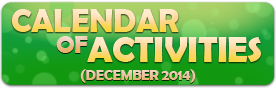
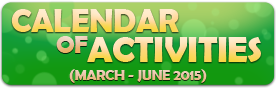
Activities and Guest comments summary

Changed region(s): [[0.2319, 0.7727, 0.7536, 0.9545]]

diff --git a/rlmj.js b/rlmj.js
@@ -1,5 +1,5 @@
 // Para sa tanan pages
-$(document).on( "pagecreate", function () {
+$( document ).on( "pagecreate", function() {
 	
 	// For collapsible-set to auto-croll sa taas. 
 	var that = "";
@@ -20,8 +20,8 @@ $(document).on( "pagecreate", function () {
 		}, 100);
 	}
 	
-	function CollapsibleHeaderMoveToTop () { 
-		$("a.ui-collapsible-heading-toggle").on("click", fncClick);
+	function CollapsibleHeaderMoveToTop() { 
+		$( "a.ui-collapsible-heading-toggle" ).on( "click", fncClick );
 	}
 	// Function end collapsible-set to auto-croll to top
 
@@ -35,8 +35,8 @@ $(document).on( "pagecreate", function () {
 /* Index */
 $( document ).on( "pagecreate", "#home", function () {
 
-	var $slidingImage = $("#homeBack .homebackground"),
-		$slidingImageCaption = $(".captionWrap").find(".slideImageCaption");
+	var $slidingImage = $( "#homeBack .homebackground" ),
+		$slidingImageCaption = $( ".captionWrap" ).find( ".slideImageCaption" );
 
 	function updateSlidingImagePath() { //Function to detect screen with and change path of sliding image to load.
 
@@ -45,33 +45,33 @@ $( document ).on( "pagecreate", "#home", function () {
 			imgSize = currentPath.slice( 13, 17 );
 
 		if (screenWidth <= 353.5) {
-			if (imgSize !== "0320") { $slidingImage.attr('src', function (index, attr) { return attr.replace(imgSize, "0320"); }); }
+			if (imgSize !== "0320") { $slidingImage.attr( 'src', function(index, attr) { return attr.replace( imgSize, "0320" ); }); }
 		} else if (screenWidth >= 353.51 && screenWidth <= 433.50) {
-			if (imgSize !== "0387") { $slidingImage.attr('src', function (index, attr) { return attr.replace(imgSize, "0387"); }); }
+			if (imgSize !== "0387") { $slidingImage.attr( 'src', function(index, attr) { return attr.replace( imgSize, "0387" ); }); }
 		} else if (screenWidth >= 433.51 && screenWidth <= 540) {
-			if (imgSize !== "0480") { $slidingImage.attr('src', function (index, attr) { return attr.replace(imgSize, "0480"); }); }
+			if (imgSize !== "0480") { $slidingImage.attr( 'src', function(index, attr) { return attr.replace( imgSize, "0480" ); }); }
 		} else if (screenWidth >= 540.01 && screenWidth <= 620) {
-			if (imgSize !== "0600") { $slidingImage.attr('src', function (index, attr) { return attr.replace(imgSize, "0600"); }); }
+			if (imgSize !== "0600") { $slidingImage.attr( 'src', function(index, attr) { return attr.replace( imgSize, "0600" ); }); }
 		} else if (screenWidth >= 620.01 && screenWidth <= 660) {
-			if (imgSize !== "0640") { $slidingImage.attr('src', function (index, attr) { return attr.replace(imgSize, "0640"); }); }
+			if (imgSize !== "0640") { $slidingImage.attr( 'src', function(index, attr) { return attr.replace( imgSize, "0640" ); }); }
 		} else if (screenWidth >= 660.01 && screenWidth <= 724) {
-			if (imgSize !== "0680") { $slidingImage.attr('src', function (index, attr) { return attr.replace(imgSize, "0680"); }); }
+			if (imgSize !== "0680") { $slidingImage.attr( 'src', function(index, attr) { return attr.replace( imgSize, "0680" ); }); }
 		} else if (screenWidth >= 724.01 && screenWidth <= 784) {
-			if (imgSize !== "0768") { $slidingImage.attr('src', function (index, attr) { return attr.replace(imgSize, "0768"); }); }
+			if (imgSize !== "0768") { $slidingImage.attr( 'src', function(index, attr) { return attr.replace( imgSize, "0768" ); }); }
 		} else if (screenWidth >= 784.01 && screenWidth <= 880) {
-			if (imgSize !== "0800") { $slidingImage.attr('src', function (index, attr) { return attr.replace(imgSize, "0800"); }); }
+			if (imgSize !== "0800") { $slidingImage.attr( 'src', function(index, attr) { return attr.replace( imgSize, "0800" ); }); }
 		} else if (screenWidth >= 880.01 && screenWidth <= 979) {
-			if (imgSize !== "0960") { $slidingImage.attr('src', function (index, attr) { return attr.replace(imgSize, "0960"); }); }
+			if (imgSize !== "0960") { $slidingImage.attr( 'src', function(index, attr) { return attr.replace( imgSize, "0960" ); }); }
 		} else if (screenWidth >= 979.01 && screenWidth <= 1011) {
-			if (imgSize !== "0998") { $slidingImage.attr('src', function (index, attr) { return attr.replace(imgSize, "0998"); }); }
+			if (imgSize !== "0998") { $slidingImage.attr( 'src', function(index, attr) { return attr.replace( imgSize, "0998" ); }); }
 		} else if (screenWidth >= 1011.01 && screenWidth <= 1052) {
-			if (imgSize !== "1024") { $slidingImage.attr('src', function (index, attr) { return attr.replace(imgSize, "1024"); }); }
+			if (imgSize !== "1024") { $slidingImage.attr( 'src', function(index, attr) { return attr.replace( imgSize, "1024" ); }); }
 		} else if (screenWidth >= 1052.01 && screenWidth <= 1108.5) {
-			if (imgSize !== "1080") { $slidingImage.attr('src', function (index, attr) { return attr.replace(imgSize, "1080"); }); }
+			if (imgSize !== "1080") { $slidingImage.attr( 'src', function(index, attr) { return attr.replace( imgSize, "1080" ); }); }
 		} else if (screenWidth >= 1108.51 && screenWidth <= 1208.5) {
-			if (imgSize !== "1137") { $slidingImage.attr('src', function (index, attr) { return attr.replace(imgSize, "1137"); }); }
+			if (imgSize !== "1137") { $slidingImage.attr( 'src', function(index, attr) { return attr.replace( imgSize, "1137" ); }); }
 		} else if (screenWidth > 1208.51) {
-			if (imgSize !== "1280") { $slidingImage.attr('src', function (index, attr) { return attr.replace(imgSize, "1280"); }); }
+			if (imgSize !== "1280") { $slidingImage.attr( 'src', function(index, attr) { return attr.replace( imgSize, "1280" ); }); }
 		}
 	}
 
@@ -79,11 +79,7 @@ $( document ).on( "pagecreate", "#home", function () {
 	updateSlidingImagePath();
 
 	function rollDayon() {
-		/*$( "#homeBack .homebackground" ).first().appendTo( '.homeBack' ).fadeOut( 2000 );
-		$( ".captionWrap .slideImageCaption" ).first().appendTo( '.captionWrap' ).fadeOut( 2000 );
-		$( "#homeBack .homebackground" ).first().fadeIn( 2000 );
-		$( ".captionWrap .slideImageCaption" ).first().fadeIn( 2000 );
-		*/
+
 		$( "#homeBack" ).find( ".homebackground" ).first().appendTo( '.homeBack' ).fadeOut( 2000 );
 		$( ".captionWrap" ).find( ".slideImageCaption" ).first().appendTo( '.captionWrap' ).fadeOut( 2000 );
 		$( "#homeBack" ).find( ".homebackground" ).first().fadeIn( 2000 );
@@ -105,21 +101,18 @@ $( document ).on( "pagecreate", "#home", function () {
 	//Reserve now Click handling from home
 	$( "#homeReserveNow" ).on( "click", function ( event ) {
 
-		event.preventDefault();
 		localStorage.AngNagTawagNiRoomPage = this.id;
 	});
 
 	//Show videos Click handling from home
 	$( ".homevideo" ).on( "click", function ( event ) {
 
-		event.preventDefault();
 		localStorage.AngNagTawagNiImages = "homevideo";
 	});
 
 	//View more guest comments Click handling from home
 	$( "#homeGotoGuestComments" ).on( "click", function ( event ) {
 
-		event.preventDefault();
 		localStorage.AngNagTawagNiContactPage = this.id;
 	});
 	// END - View more guest comments Click handling from home
@@ -131,20 +124,7 @@ $( document ).on( "pagecreate", "#home", function () {
 		localStorage.AngNagTawagNiDiningPage = this.id;
 	});
 	// END - View more guest comments Click handling from home	
-/*
-	// Hide and show Main page menu. The listview transparent one. :)
-	$("#HomeMenuList").on("click", function () {
-		if ($("#homeMenu").is(":visible")) {
-			$("#homeMenu").hide(500);
-			$(".homeMain").css("margin-top", "10px");		//Change top border		
-		} else {
-			$("#homeMenu").show(500);
-			$(".homeMain").css("margin-top", "78px");		//Back to original
 
-		}
-	});
-	// END - Hide and show Main page menu
-*/
 	//sliding home page selected comments
 	var selectedComments = $( ".theComment" ),
 		commentsCnt = selectedComments.length,
@@ -161,8 +141,7 @@ $( document ).on( "pagecreate", "#home", function () {
 
 	getHtmlData( "indexsidebar.html" ).then( function( indexsidebarHtml ) {
 
-		//$( ".homesidebar" ).html( indexsidebarHtml ).trigger( "create" );
-		$( ".homesidebar" ).html( indexsidebarHtml ).trigger( "create" );
+		$( ".homesidebar" ).prepend( indexsidebarHtml ).trigger( "create" );
 	});
 });
 

diff --git a/contact.html b/contact.html
@@ -221,7 +221,7 @@
 						<h3 class="leoxTitle1">GUEST COMMENTS SUMMARY</h3>
 						<div class="iCenter">
 							<div class="InlineBlock iCenter">
-								<table data-role="table" id="guestcommentsTable1" data-mode="columntoggle" class="ui-responsive table-stroke" data-column-btn-text="Whole Year 2013 ...">
+								<table data-role="table" id="guestcommentsTable1" data-mode="columntoggle" class="ui-responsive table-stroke" data-column-btn-text="Whole Year 2014">
 									<thead>
 										<tr>
 										<th><strong>Please Rate</strong></th>
@@ -233,50 +233,50 @@
 									</thead>
 									<tbody>
 										<tr>
-											<td class="txtDarkGreen"><strong>Ambience, Look, and "Feel" of the Hotel</strong></td>
-											<td>1113</td>
-											<td>104</td>
-											<td>0</td>
-											<td>0</td>
+											<td class="Tealcolor"><strong>Ambience, Look, and "Feel" of the Hotel</strong></td>
+											<td>1344</td>
+											<td>86</td>
+											<td>4</td>
+											<td>1</td>
 										</tr>
 										<tr>
-											<td class="txtDarkGreen"><strong>Reservations, check- in, check-out</strong></td>
-											<td>976</td>
-											<td>205</td>
-											<td>22</td>
-											<td>14</td>
-										</tr>
-										<tr>
-											<td class="txtDarkGreen"><strong>Quality of Room and Hotel Facilities</strong></td>
-											<td>947</td>
-											<td>235</td>
-											<td>26</td>
-											<td>9</td>
-										</tr>
-										<tr>
-											<td class="txtDarkGreen"><strong>Quality of Food and Dining Areas</strong></td>
-											<td>772</td>
-											<td>374</td>
-											<td>53</td>
-											<td>18</td>
-										</tr>
-										<tr>
-											<td class="txtDarkGreen"><strong>Quality of Service Throughout the Hotel</strong></td>
-											<td>1044</td>
-											<td>141</td>
-											<td>22</td>
+											<td class="Tealcolor"><strong>Reservations, check- in, check-out</strong></td>
+											<td>1208</td>
+											<td>200</td>
+											<td>17</td>
 											<td>10</td>
 										</tr>
 										<tr>
-											<td class="txtDarkGreen"><strong>Overall Level of Satisfaction</strong></td>
-											<td>1027</td>
-											<td>160</td>
-											<td>22</td>
+											<td class="Tealcolor"><strong>Quality of Room and Hotel Facilities</strong></td>
+											<td>1212</td>
+											<td>201</td>
+											<td>17</td>
+											<td>5</td>
+										</tr>
+										<tr>
+											<td class="Tealcolor"><strong>Quality of Food and Dining Areas</strong></td>
+											<td>1029</td>
+											<td>357</td>
+											<td>41</td>
 											<td>8</td>
+										</tr>
+										<tr>
+											<td class="Tealcolor"><strong>Quality of Service Throughout the Hotel</strong></td>
+											<td>1316</td>
+											<td>104</td>
+											<td>10</td>
+											<td>5</td>
+										</tr>
+										<tr>
+											<td class="Tealcolor"><strong>Overall Level of Satisfaction</strong></td>
+											<td>1292</td>
+											<td>127</td>
+											<td>13</td>
+											<td>3</td>
 										</tr>
 									</tbody>
 								</table>
-								<table data-role="table" id="guestcommentsTable2" data-mode="columntoggle" class="ui-responsive table-stroke" data-column-btn-text="YEAR 2014 ...( January - December  )">
+								<table data-role="table" id="guestcommentsTable2" data-mode="columntoggle" class="ui-responsive table-stroke" data-column-btn-text="January - February 2015">
 									<thead>
 										<tr>
 										<th><strong>Please Rate</strong></th>
@@ -289,27 +289,27 @@
 									<tbody>
 										<tr>
 											<td class="txtDarkGreen"><strong>Ambience, Look, and "Feel" of the Hotel</strong></td>
-											<td>1344</td><td>86</td><td>4</td><td>1</td>
+											<td>189</td><td>16</td><td>0</td><td>0</td>
 										</tr>
 										<tr>
 											<td class="txtDarkGreen"><strong>Reservations, check- in, check-out</strong></td>
-											<td>1208</td><td>200</td><td>17</td><td>10</td>
+											<td>169</td><td>29</td><td>4</td><td>3</td>
 										</tr>
 										<tr>
 											<td class="txtDarkGreen"><strong>Quality of Room and Hotel Facilities</strong></td>
-											<td>1212</td><td>201</td><td>17</td><td>5</td>
+											<td>170</td><td>32</td><td>3</td><td>0</td>
 										</tr>
 										<tr>
 											<td class="txtDarkGreen"><strong>Quality of Food and Dining Areas</strong></td>
-											<td>1029</td><td>357</td><td>41</td><td>8</td>
+											<td>146</td><td>52</td><td>2</td><td>5</td>
 										</tr>
 										<tr>
 											<td class="txtDarkGreen"><strong>Quality of Service Throughout the Hotel</strong></td>
-											<td>1316</td><td>104</td><td>10</td><td>5</td>
+											<td>189</td><td>12</td><td>4</td><td>0</td>
 										</tr>
 										<tr>
 											<td class="txtDarkGreen"><strong>Overall Level of Satisfaction</strong></td>
-											<td>1292</td><td>127</td><td>13</td><td>3</td>
+											<td>180</td><td>22</td><td>2</td><td>1</td>
 										</tr>
 									</tbody>
 								</table>					

diff --git a/index.html b/index.html
@@ -215,7 +215,7 @@
 							</ul>
 						</div>	
 					</div>
-				</div>
+				</div>-->
 				<div class="sidebarItem ui-corner-all custom-corners">
 					<div class="ui-bar ui-bar-a">
 						<h3 class="leoxTitle1">FEATURED GUEST COMMENTS</h3>
@@ -223,25 +223,25 @@
 					<div class="ui-body ui-body-a">
 						<div class="theComment">
 							<p class="angComment L iJustify">
-								I liked or more of I loved everything at Plantation Bay! From the staff, service, facilities, wide range of activities you can do/have, to the location and value for money, everything was excellent. More than excellent, actually. The lagoons are well-maintained and the staff are very, very professional and friendly. A true first class luxury resort.
+								I’ve been to several hotels and resorts in Canada, Dominican Republic, Jamaica, Cuba, and the US.  This by far is the best.  Awesome staff.  Food is world-class.  Best decision to spend our vacation here.  I will highly recommend when I come back to Toronto.
 							</p>
 							<p class="commenter">
-								Guest’s review on Booking.Com<br />
-								stayed December 2014
+								H.M., <br />couple from Canada,<br />
+								stayed February 2015
 							</p>
 						</div>
 						<div class="theComment itago">
 							<p class="angComment L iJustify">
-								We enjoyed the nightly shows, the delectable food, and the customer service.  We really wish we could stay longer.  Customer service is one other hotels should mirror!  Thanks. 
+								We have been staying here for the past 10 years.  We have consistent satisfactory service from the staff towards its guests.  The ambience never fails to offer the heavenly feel; just keeps wanting to some back.  J  
 							</p>
 							<p class="commenter">
-								C.F., <br /> family from the US,<br />
-								stayed November 2014
+								J.J.,<br />returning guests from Poland,<br />
+								stayed February 2015
 							</p>
 						</div>
 					</div>
 					<div class="sideBarDetailsLink"><a href="contact.html" id="homeGotoGuestComments" data-ajax="false">View more Guest comments</a></div>
-				</div>-->	
+				</div>	
 			</aside>			
 		</section>
 		<div data-role="popup" id="samplePrices" data-loaded="" data-overlay-theme="b" class="ui-content" data-history="false">

diff --git a/indexsidebar.html b/indexsidebar.html
@@ -62,7 +62,7 @@
 							</ul>
 						</div>	
 					</div>
-				</div>
+				</div><!--
 				<div class="sidebarItem ui-corner-all custom-corners">
 					<div class="ui-bar ui-bar-a">
 						<h3 class="leoxTitle1">FEATURED GUEST COMMENTS</h3>
@@ -70,22 +70,22 @@
 					<div class="ui-body ui-body-a">
 						<div class="theComment">
 							<p class="angComment L iJustify">
-								I liked or more of I loved everything at Plantation Bay! From the staff, service, facilities, wide range of activities you can do/have, to the location and value for money, everything was excellent. More than excellent, actually. The lagoons are well-maintained and the staff are very, very professional and friendly. A true first class luxury resort.
+								I’ve been to several hotels and resorts in Canada, Dominican Republic, Jamaica, Cuba, and the US.  This by far is the best.  Awesome staff.  Food is world-class.  Best decision to spend our vacation here.  I will highly recommend when I come back to Toronto.
 							</p>
 							<p class="commenter">
-								Guest’s review on Booking.Com<br />
-								stayed December 2014
+								H.M., <br />couple from Canada,<br />
+								stayed February 2015
 							</p>
 						</div>
 						<div class="theComment itago">
 							<p class="angComment L iJustify">
-								We enjoyed the nightly shows, the delectable food, and the customer service.  We really wish we could stay longer.  Customer service is one other hotels should mirror!  Thanks. 
+								We have been staying here for the past 10 years.  We have consistent satisfactory service from the staff towards its guests.  The ambience never fails to offer the heavenly feel; just keeps wanting to some back.  J  
 							</p>
 							<p class="commenter">
-								C.F., <br /> family from the US,<br />
-								stayed November 2014
+								J.J.,<br />returning guests from Poland,<br />
+								stayed February 2015
 							</p>
 						</div>
 					</div>
 					<div class="sideBarDetailsLink"><a href="contact.html" id="homeGotoGuestComments" data-ajax="false">View more Guest comments</a></div>
-				</div>
+				</div>-->

diff --git a/activitiesCalendar.html b/activitiesCalendar.html
@@ -48,9 +48,9 @@
 	</div>
     <div data-role="content">
 		<a data-rel="back" class="ui-btn ui-mini ui-btn-inline ui-btn-icon-left ui-icon-back ui-corner-all" data-transition="slide" >BACK</a>     				
-		<img  class="IpatungaDblock" src="http://plantationbay.com/wp-content/gallery/soa/soa1.jpg" />
+		<img  class="IpatungaDblock" src="images/SchedActivities.jpg" />
 		<h4 class="ui-bar ui-bar-a" style="font:bold 24px Arial;color:teal;text-align:center;">RECREATION</h4>
-		<!--<p class="iCenter Tealcolor" style="font:bold 24px Arial">RECREATION</p>-->
+		<!--<p class="iCenter Tealcolor" style="font:bold 24px Arial">RECREATION</p>
 			<div class="actDiv" style="background-color:rgba(111,172,104,.2);">
 				<div class="actDays">MONDAYS</div>
 				<div class="actAdultChildren">
@@ -245,13 +245,15 @@
 						</tbody>
 					</table>
 				</div>
-			</div>
+			</div>-->
+			<div class="spacer15px"></div>
+			<img  class="IpatungaDblock" style="margin-top:-45px;"src="images/RecActivities.jpg" />
 			<p class="iCenter Tealcolor" style="font:bold 24px Arial">Schedule and/or venue may change.<br />Please call 505-9800 local 1080 for inquiries.</p>
 			<hr />
 			<!--<p class="iCenter Tealcolor" style="font:bold 24px Arial">FOOD AND BEVERAGE</p>-->
 			<h4 class="ui-bar ui-bar-a" style="font:bold 24px Arial;color:teal;text-align:center;">FOOD AND BEVERAGE</h4>
 			<div class="spacer15px"></div>
-			<img  class="IpatungaDblock" style="margin-top:-45px;"src="http://plantationbay.com/wp-content/uploads/2014/04/may-fnb-web.jpg" />
+			<img  class="IpatungaDblock" style="margin-top:-45px;"src="images/FbActivities.jpg" />
 			<!--<p class="iCenter Tealcolor" style="font:bold 24px Arial">RESERVATION ESSENTIAL! LOCAL 1042<br />
 				Schedule and/or venue may change.<br />
 				Please call 505-9800 local 4042 for inquiries.</p>-->
